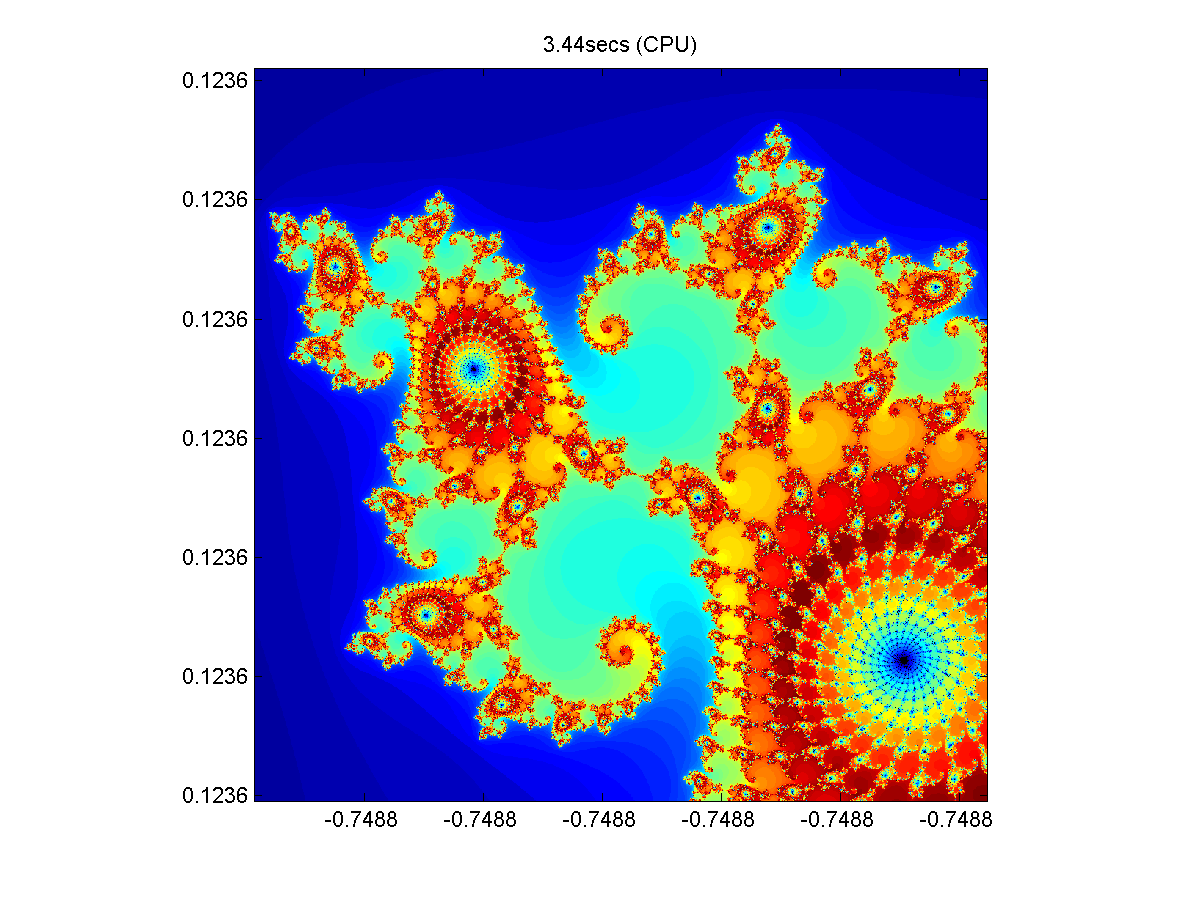
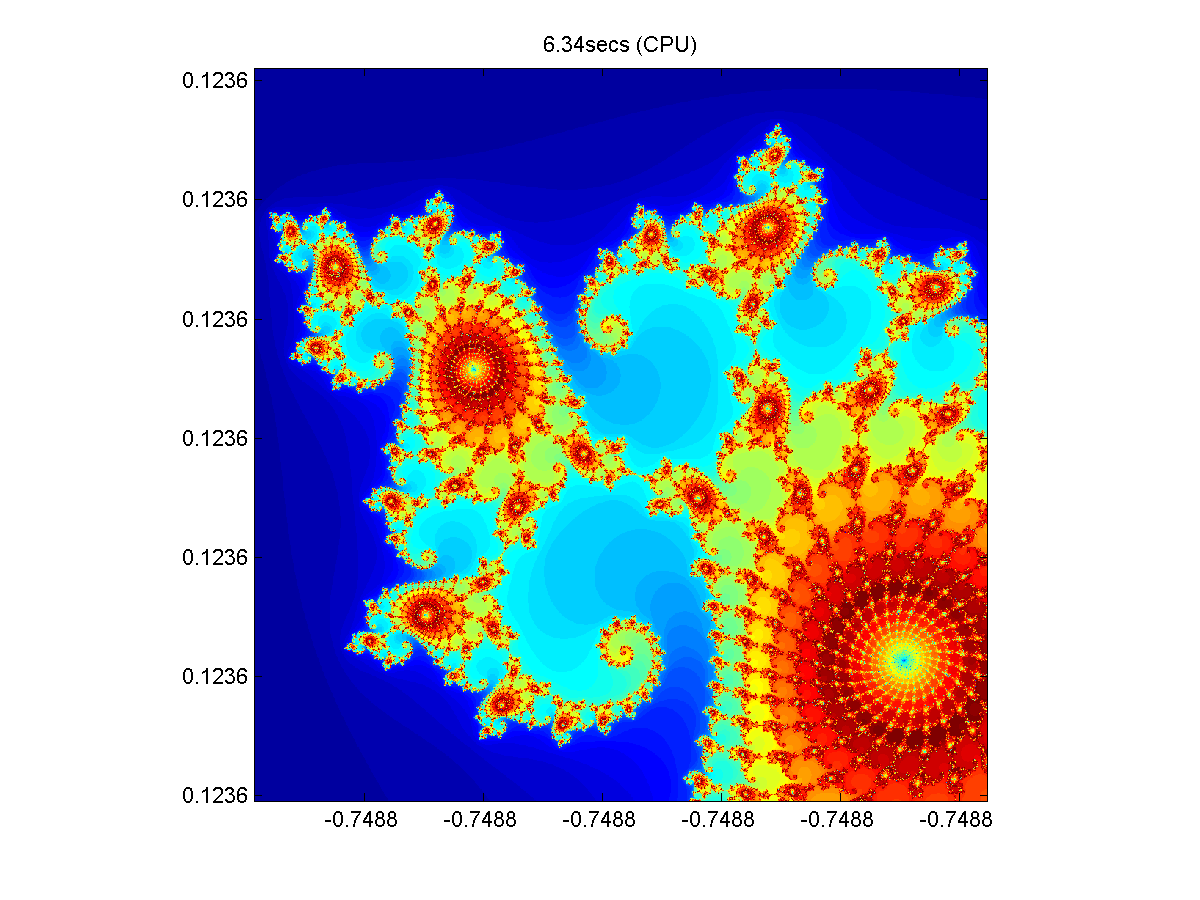
fixed scaling

diff --git a/cudafun.m b/cudafun.m
@@ -31,6 +31,7 @@ function count = cudafun(maxIter, gridSize)
     gpuTime = toc(t);
     disp(gpuTime);
     fig = figure(2);
+    clf(fig, 'reset');
     fig.Position = [200 200 600 600];
     imagesc(x, y, count);
     axis image

diff --git a/cpufun.m b/cpufun.m
@@ -26,6 +26,7 @@ function count = cpufun(maxIter, gridSize)
     %Display
     cpuTime = toc(t);
     fig = figure(1);
+    clf(fig, 'reset');
     fig.Position = [200 200 600 600];
     imagesc(x, y, count);
     axis image

diff --git a/cudaerror.m b/cudaerror.m
@@ -19,6 +19,7 @@ function err = cudaerror(maxIter, gridSize)
     
     %Display error
     fig = figure(3);
+    clf(fig, 'reset');
     fig.Position = [200 200 600 600];
     imagesc(x, y, err);
     axis image
